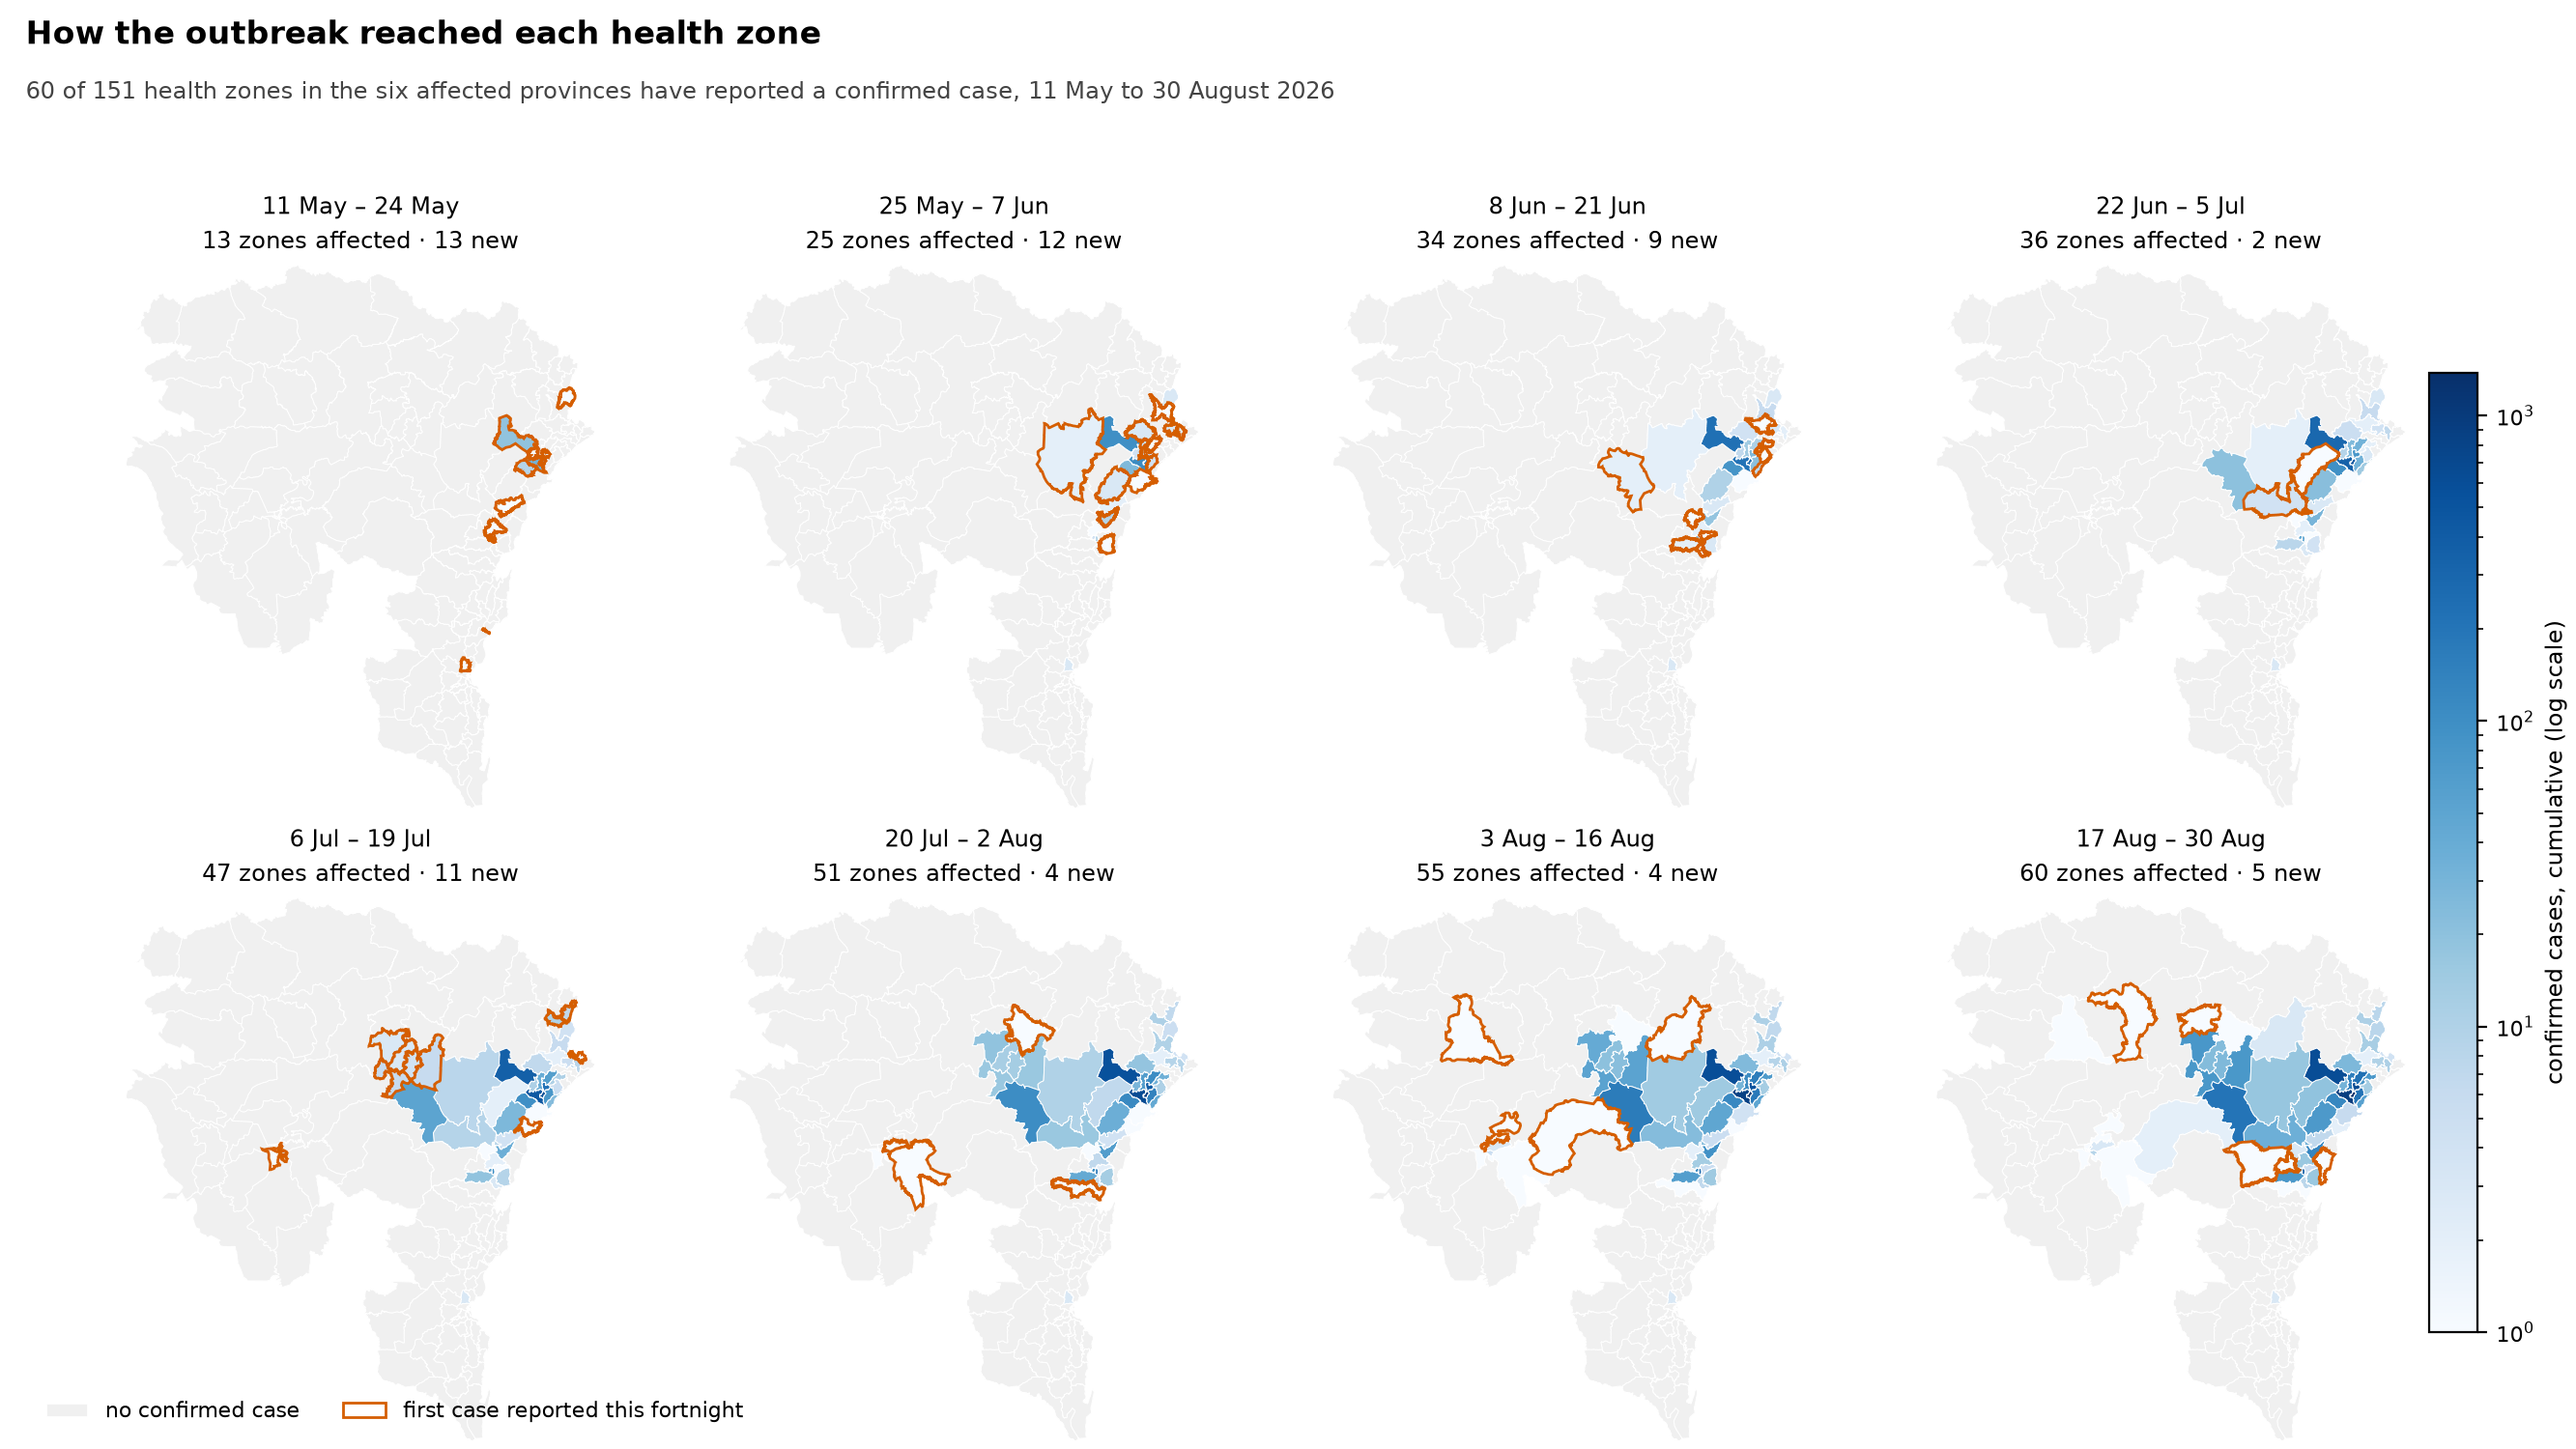
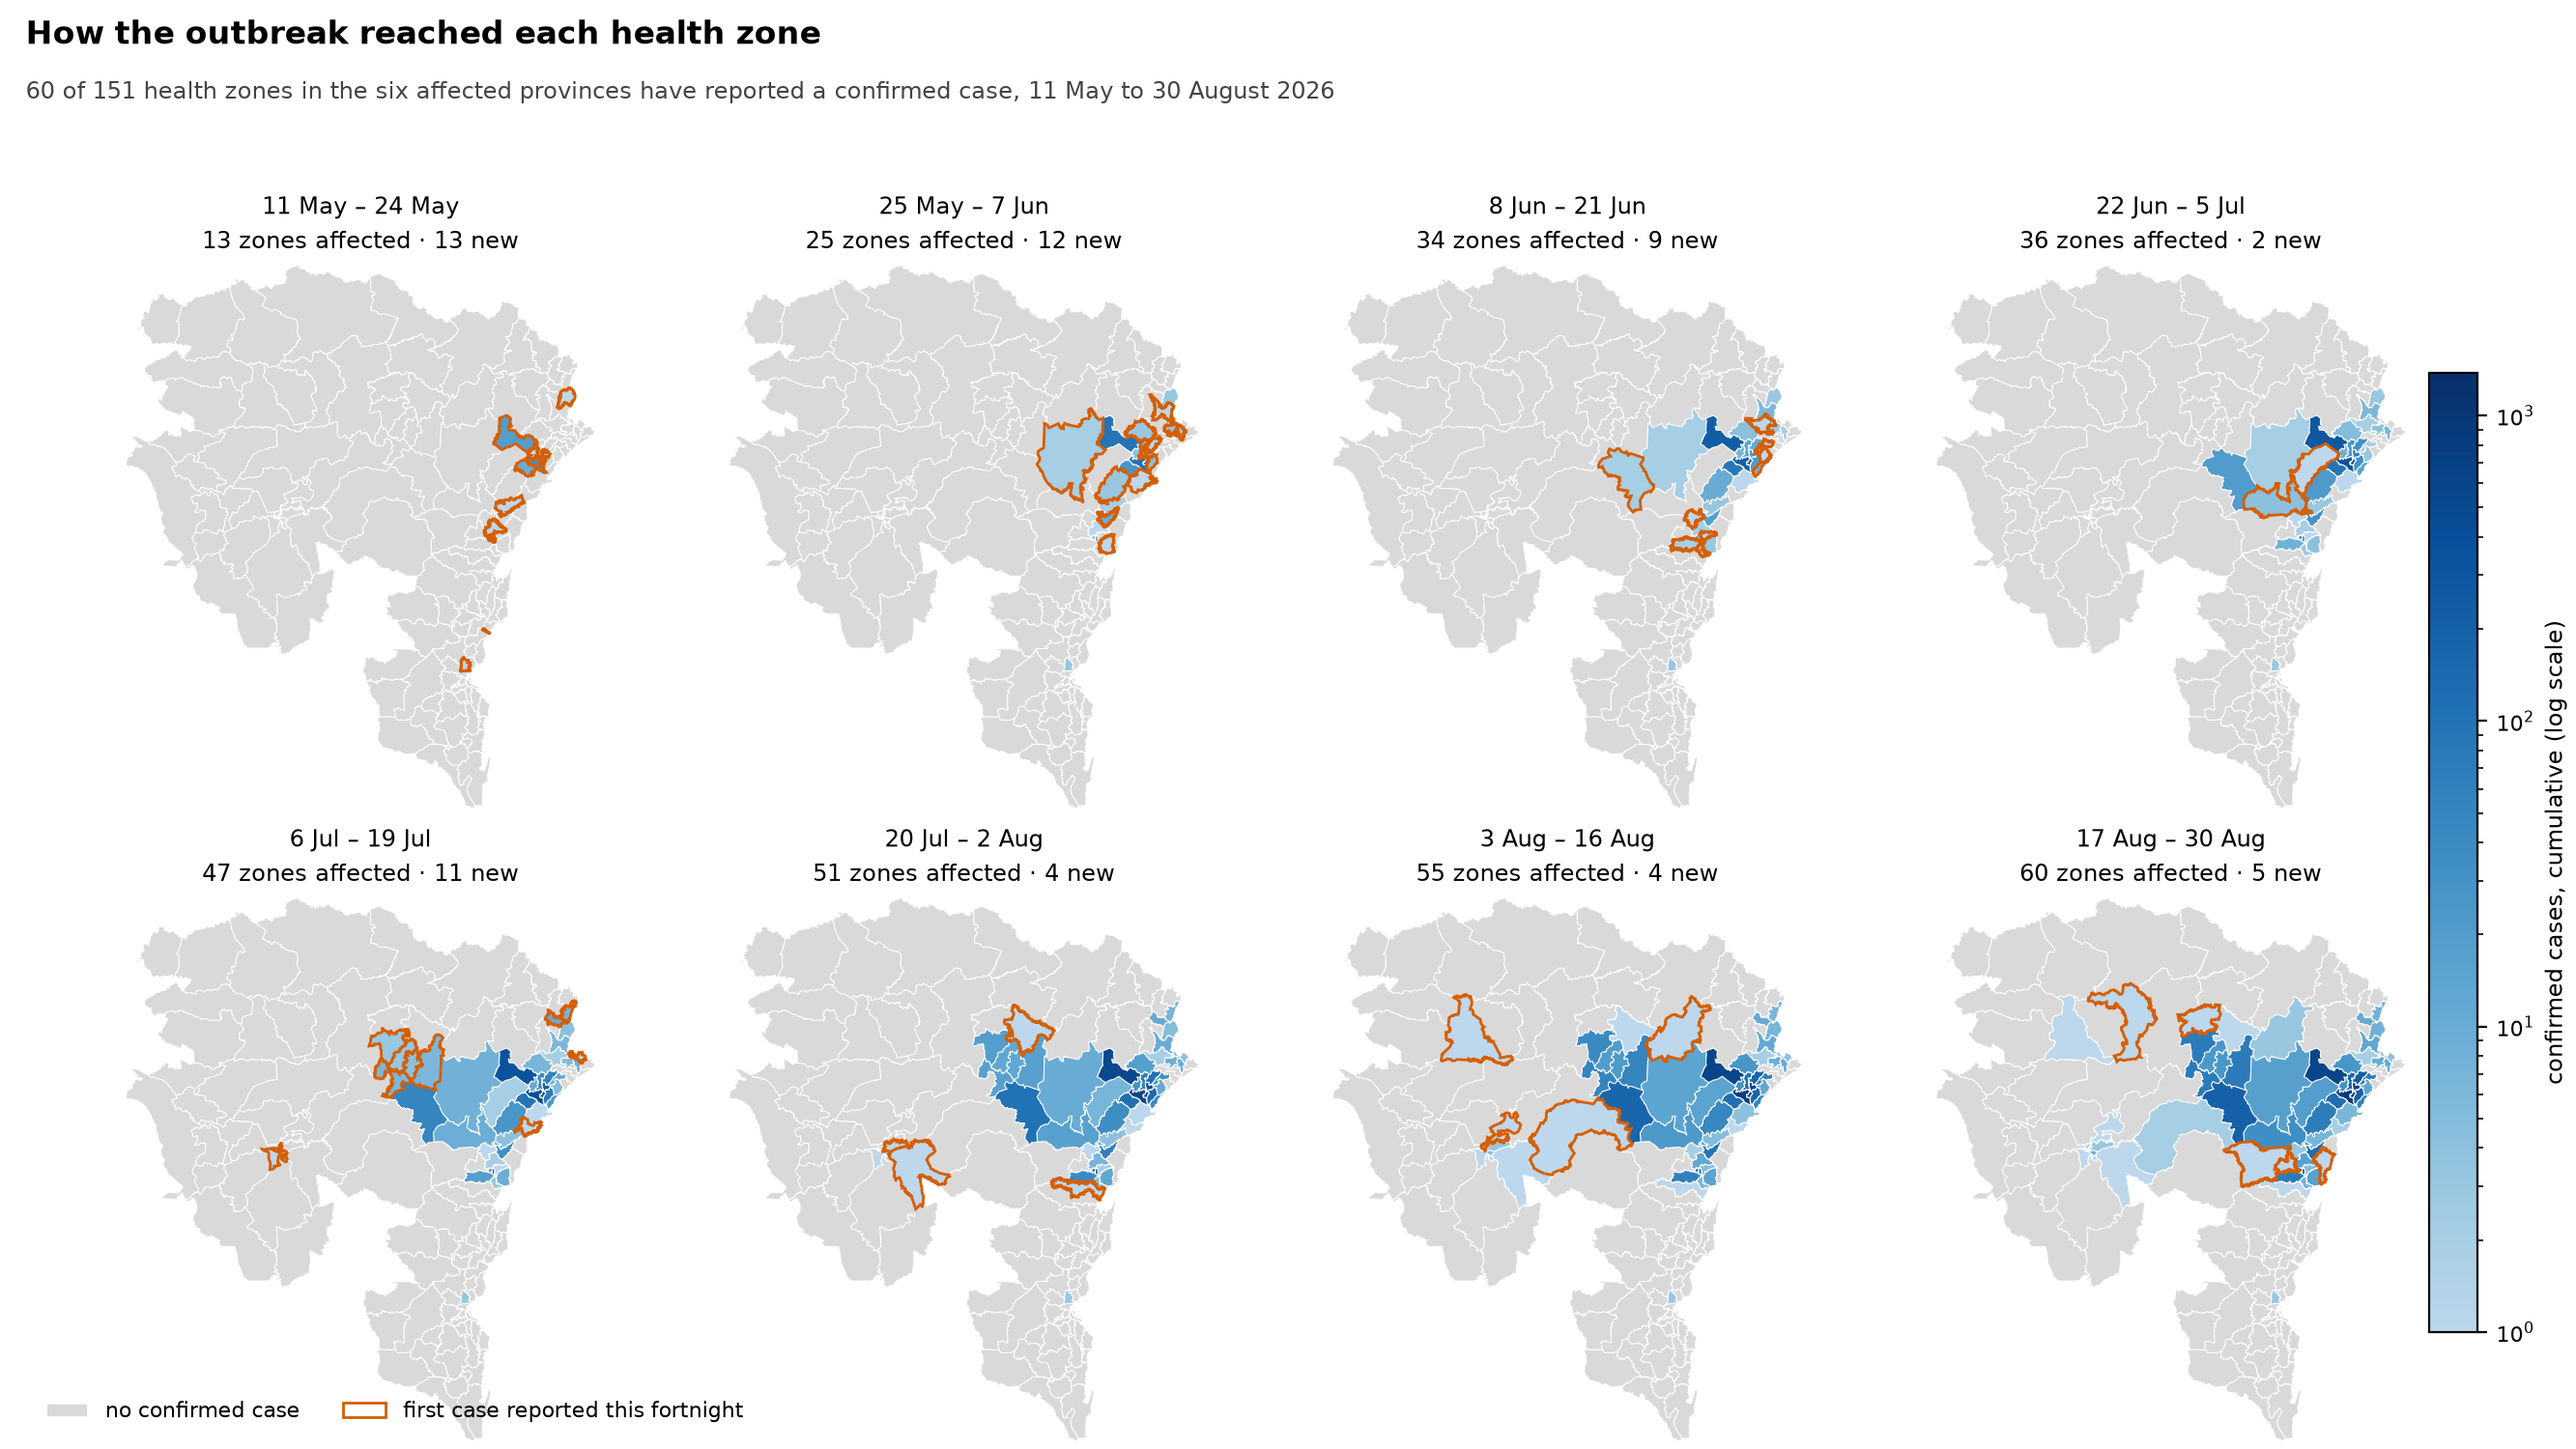
zone_spread: one case and no case were the same colour
The Blues ramp bottoms out near #F7FBFF. Against a grey light enough to read
as 'not part of the outbreak' that is indistinguishable, so a zone with one
case looked exactly like a zone with none -- the single most important
distinction on the figure, and the one it got wrong.

Two changes, addressing the same root cause from both sides: the ramp is
truncated to its upper 72% so the palest CASE is unambiguously blue, and the
no-case grey goes #F0F0F0 to #D9D9D9. The two are now separated by hue as well
as lightness, which is what survives printing, projection and colour-blind
readers.

Kept the blue family rather than switching to a warm one: the arrival outline
is #D55E00, and a magma or inferno fill would put the marker inside the ramp's
own hue range.

Claude-Session: https://claude.ai/code/session_015tkmBJ2UNKTmshByKopqW2

diff --git a/scripts/plot_figures.py b/scripts/plot_figures.py
@@ -4312,7 +4312,18 @@ def draw_zone_spread(inputs: dict[str, Path], out: Path) -> None:
     axes = axes.ravel()
     top = max(max(d.values(), default=0) for d in cum.values())
     norm = mcolors.LogNorm(vmin=1, vmax=max(top, 10))
-    cmap = plt.get_cmap("Blues")
+    # THE RAMP DOES NOT START AT WHITE. `Blues` bottoms out near #F7FBFF, which
+    # against any grey light enough to read as "not part of the outbreak" is
+    # indistinguishable -- a zone with one case looked exactly like a zone with
+    # none, which is the single most important distinction on the figure. The
+    # ramp is truncated to its upper 72% so the palest CASE is unambiguously
+    # blue, and the no-case grey is darkened to sit clearly apart from it. The
+    # two are then separated by hue as well as by lightness, which is what
+    # survives being printed, projected, or seen by a colour-blind reader.
+    cmap = mcolors.LinearSegmentedColormap.from_list(
+        "cases", [plt.get_cmap("Blues")(0.28 + 0.72 * i / 255)
+                  for i in range(256)])
+    NONE = "#D9D9D9"
     NEW = "#D55E00"
 
     xs = [c for f in geo["features"] for pth in _geom_paths(f["geometry"])
@@ -4327,7 +4338,7 @@ def draw_zone_spread(inputs: dict[str, Path], out: Path) -> None:
         for f in geo["features"]:
             k = BS_canonical(f["properties"]["nom"])
             n = counts.get(k, 0)
-            face = cmap(norm(n)) if n > 0 else "#F0F0F0"
+            face = cmap(norm(n)) if n > 0 else NONE
             edge, lw = (NEW, 1.0) if k in new else ("white", 0.35)
             for pth in _geom_paths(f["geometry"]):
                 ax.add_patch(PathPatch(pth, facecolor=face, edgecolor=edge,
@@ -4346,7 +4357,7 @@ def draw_zone_spread(inputs: dict[str, Path], out: Path) -> None:
     cb = fig.colorbar(sm, ax=axes.tolist(), fraction=0.02, pad=0.01)
     cb.set_label("confirmed cases, cumulative (log scale)", fontsize=8.5)
     cb.ax.tick_params(labelsize=8)
-    fig.legend(handles=[Patch(facecolor="#F0F0F0", edgecolor="white",
+    fig.legend(handles=[Patch(facecolor=NONE, edgecolor="white",
                               label="no confirmed case"),
                         Patch(facecolor="white", edgecolor=NEW, linewidth=1.0,
                               label="first case reported this fortnight")],
